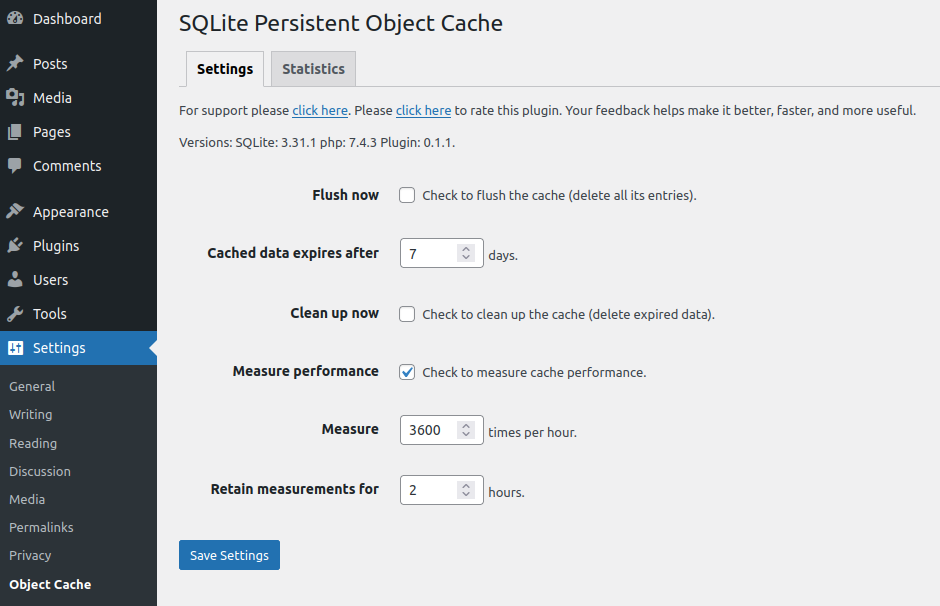
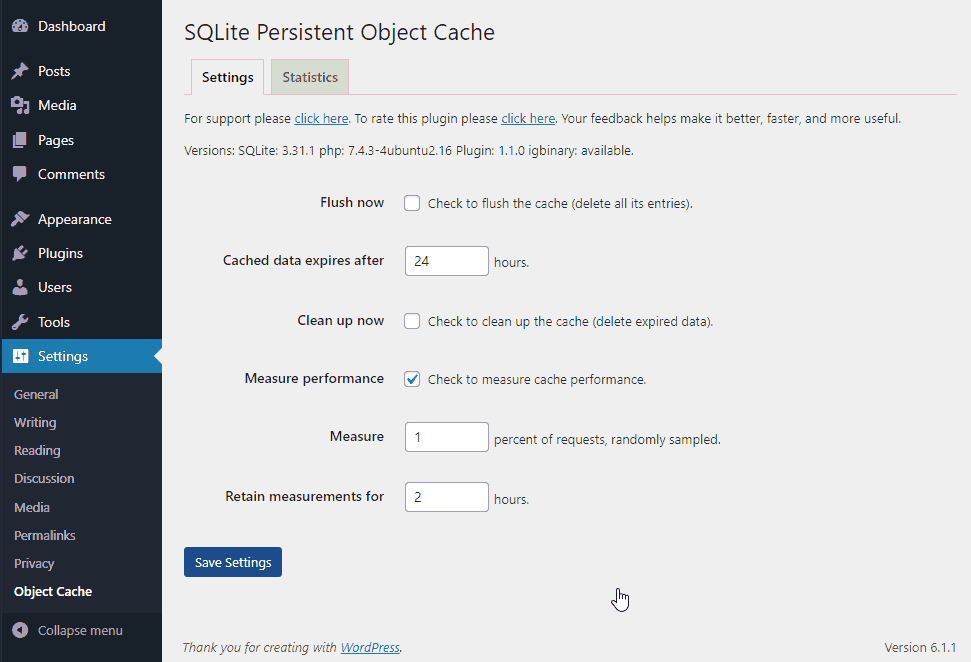
1.1.0 Update screenshots, FAQs.

diff --git a/sqlite-object-cache.php b/sqlite-object-cache.php
@@ -1,7 +1,7 @@
 <?php
 /**
  * Plugin Name: SQLite Object Cache
- * Version: 1.0.1
+ * Version: 1.1.0
  * Plugin URI: https://github.com/OllieJones/sqlite-object-cache
  * Description: A persistent object cache backend powered by SQLite3.
  * Author: Oliver Jones
@@ -35,7 +35,7 @@ if ( is_admin() ) {
  * @since  1.0.0
  */
 function sqlite_object_cache() {
-	$instance = new SQLite_Object_Cache( __FILE__, '1.0.1' );
+	$instance = new SQLite_Object_Cache( __FILE__, '1.1.0' );
 
 	if ( is_admin() ) {
 		$instance->settings = new SQLite_Object_Cache_Settings( $instance );

diff --git a/includes/class-sqlite-object-cache.php b/includes/class-sqlite-object-cache.php
@@ -121,7 +121,7 @@ class SQLite_Object_Cache {
 	 * @param string $file File constructor.
 	 * @param string $version Plugin version.
 	 */
-	public function __construct( $file = '', $version = '1.0.1' ) {
+	public function __construct( $file = '', $version = '1.1.0' ) {
 		$this->_version = $version;
 		$this->_token   = 'sqlite_object_cache';
 

diff --git a/assets/drop-in/object-cache.php b/assets/drop-in/object-cache.php
@@ -1,7 +1,7 @@
 <?php
 /**
  * Plugin Name: SQLite Object Cache Drop-In
- * Version: 1.0.1
+ * Version: 1.1.0
  * Note: This Version number must match the one in the ctor for SQLite_Object_Cache.
  * Plugin URI: https://wordpress.org/plugins/sqlite-object-cache/
  * Description: A persistent object cache backend powered by SQLite3.
